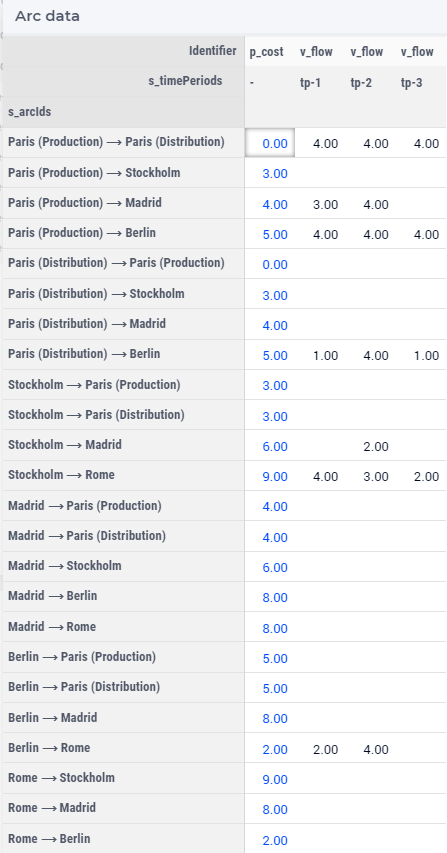
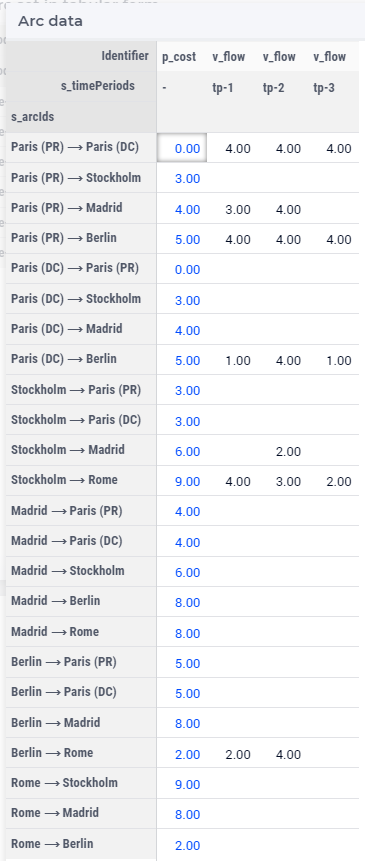
#526 Refined article hierarchical composite objects

diff --git a/Articles/526/526-hierarchical-composite-objects.rst b/Articles/526/526-hierarchical-composite-objects.rst
@@ -25,6 +25,9 @@ So why don't we structure the arcs and nodes as follows:
 .. image:: images/composite-objects.png
     :align: center
 
+Declaring and using the node type
+---------------------------------
+
 The node type is declared in AIMMS as follows:
 
 .. code-block:: aimms
@@ -34,7 +37,12 @@ The node type is declared in AIMMS as follows:
         Index: i_loc;
     }
     Set s_nodeTypes {
+        Index: i_nt;
         Definition: data { Production, Distribution };
+    }
+    StringParameter sp_shortTypeName {
+        IndexDomain: i_nt;
+        Definition: data { Production : "PR",  Distribution : "DC" };
     }
     Set s_nodeIds {
         Index: i_node, i_nodeFrom, i_nodeTo;
@@ -47,8 +55,23 @@ The node type is declared in AIMMS as follows:
         IndexDomain: i_node;
         Range: s_nodeTypes;
     }
+    
+With these declarations, we can define the set of ``s_productionNodes`` as follows:
 
-And then the arc type is declared as follows.
+.. code-block:: aimms
+    :linenos:
+
+    Set s_productionNodes {
+        SubsetOf: s_nodeIds;
+        Definition: {
+            { i_node | ep_nodeType(i_node) = 'Production' }
+        }
+    }
+
+Declaring and using the arc type
+---------------------------------
+
+The arc type is declared as before, namely as follows:
 
 .. code-block:: aimms
     :linenos:
@@ -65,6 +88,22 @@ And then the arc type is declared as follows.
         IndexDomain: i_arc;
         Range: s_nodeIds;
     }
+    
+With the declaration of both nodes and arcs, we can select the arcs coming from a production location as follows:
+
+.. code-block:: aimms
+    :linenos:
+
+    Set s_arcsComingFromProduction {
+        SubsetOf: s_arcIds;
+        Index: i_pa;
+        Definition: {
+            { i_arc | ep_nodeType( ep_arcNodeFrom(i_arc) ) = 'Production' }
+        }
+    }
+
+Text input data
+------------------
 
 Part of the input for this model can be presented as AIMMS Composite tables as follows:
 
@@ -92,6 +131,9 @@ Part of the input for this model can be presented as AIMMS Composite tables as f
     ...    
     ;
 
+Reporting the node and arc names
+--------------------------------
+
 Clearly, as we have to look up the interpretation of a node name, it is not immediately clear what an arc is.
 This can be improved in the reporting, as the screenshot of a WebUI widget of the solution shows below:
 
@@ -112,7 +154,8 @@ except when there are multiple facilities in one location.
             if p_noNodesPerLocation(ep_nodeLocation( i_node)) = 1 then
                 formatString("%e", ep_nodeLocation( i_node) )
             else
-                formatString("%e (%e)", ep_nodeLocation( i_node), ep_nodeType( i_node ) )
+                formatString("%e (%s)", ep_nodeLocation( i_node), 
+                    sp_shortTypeName( ep_nodeType( i_node ) ) )
             endif
         }
     }
@@ -131,5 +174,55 @@ Once we have a clarifying node name, we can use that node name in the arc name a
                 sp_nodeName( ep_arcNodeTo(   i_arc ) ) )
         }
     }
+
+Comparing deprecated compound sets and the reference based approach
+--------------------------------------------------------------------
+
+An advantage of the reference based approach:
+The reference based approach allows for hierarchical construction of objects as illustrated in this article.
+This was not offered in the now deprecated compound sets.
+
+A functionality of the deprecated compound sets:
+The deprecated compound sets allowed to declare per composite object but also to use the component based approach in expressions.
+
+.. code-block:: aimms
+    :linenos:
+
+    Set s_nodes {
+        Index: i_node, i_nodeFrom, i_nodeTo;
+    }
+    Set s_arcs {
+        SubsetOf: (s_nodes, s_nodes);
+        Tags: (afrom, ato);
+        Index: i_arc;
+    }
+    Variable v_flow {
+        IndexDomain: i_arc;
+        Range: free;
+    }
+    Parameter p_totFlowCompBased {
+        Definition: sum( (i_nodeFrom, i_nodeTo), v_flow(i_nodeFrom, i_nodeTo) );
+    }
+    Parameter p_totFlowRefBased {
+        Definition: sum( i_arc, v_flow(i_arc) );
+    }
+    Parameter p_totInFlowCompBased {
+        IndexDomain: i_node;
+        Definition: sum( i_nodeFrom, v_flow(i_nodeFrom, i_node) );
+    }
+    Parameter p_totInFlowRefBased {
+        IndexDomain: i_node;
+        Definition: sum( i_arc | i_arc.ato = i_node, v_flow(i_arc) );
+    }
+
+On lines 14 and 21 the component based approach is used in using ``v_flow``.
+On lines 17 and 25 the reference based approach is used in using ``v_flow``.
+
+Whether or not mixing the component and reference based approach is an advantage is debatable. 
+In :doc:`../526/526-modeling-composite-objects` it is shown that using the reference based approach is clearer.  
+Even when selecting arcs using element parameters or tags to refer to the components of a composite object.
+
+
+
 
 
